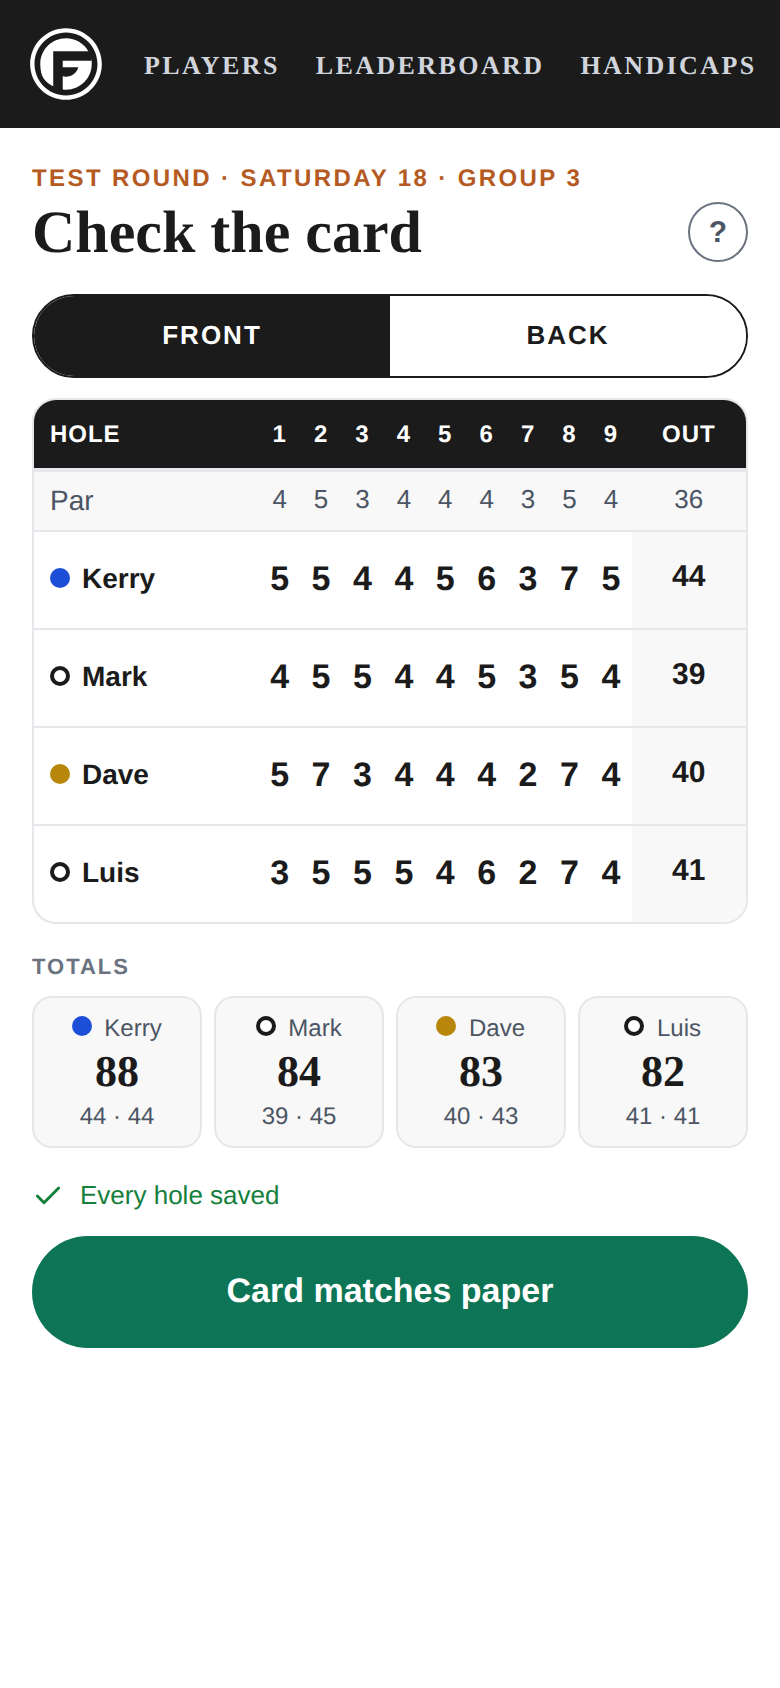
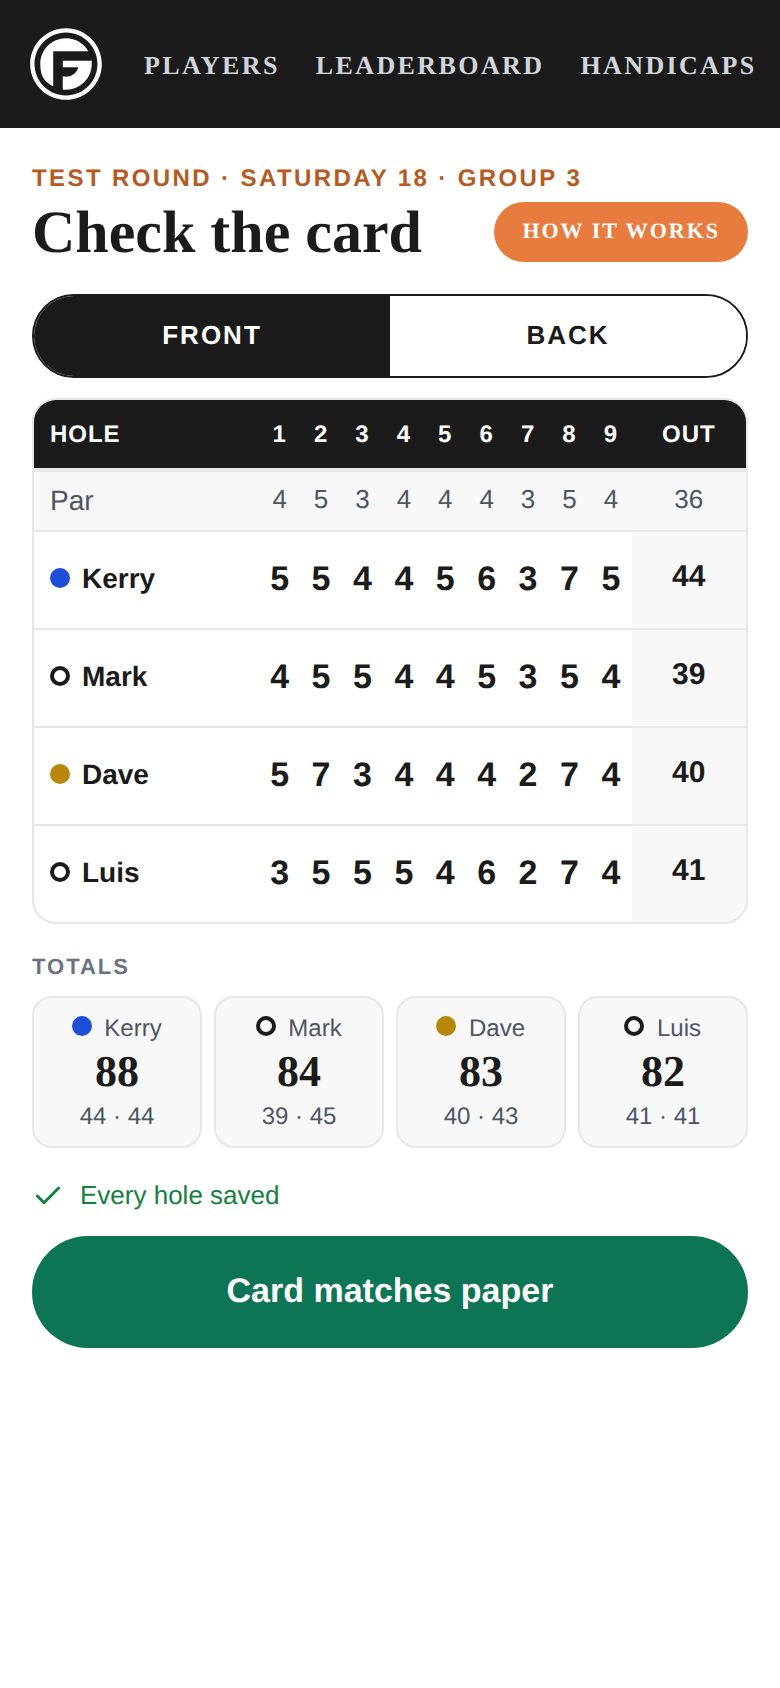
Score entry: How It Works pill, 'Me' for the paper card, full preview bridge (v2.496.1)
Claude-Session: https://claude.ai/code/session_01PeGTnLppc6bpJPrSmUWsVP

Changed region(s): [[0.6154, 0.0924, 0.9538, 0.154]]

diff --git a/transaction-tracker/templates/score_entry.html b/transaction-tracker/templates/score_entry.html
@@ -118,10 +118,13 @@
         /* CARD CHECK (Kerry 2026-09-25): like the paper card and GG's review,
            one nine at a time, the score row right under it. */
         .se-titlebar { display: flex; align-items: center; justify-content: space-between; gap: 10px; }
-        .se-help { width: 30px; height: 30px; border-radius: 15px; border: 1.5px solid #6B7280; background: #FFFFFF;
-                   color: #4B5563; font: 700 15px/1 'Helvetica Neue', Helvetica, Arial, sans-serif; cursor: pointer;
-                   flex: none; padding: 0; }
-        .se-help.on { background: #1B1B1B; border-color: #1B1B1B; color: #FFFFFF; }
+        /* HOW IT WORKS: the app's help standard (contests.html .pr-hiw-link):
+           an orange pill, white Bitter capitals (Kerry 2026-09-26). */
+        .se-help { display: inline-flex; align-items: center; height: 30px; padding: 0 14px; flex: none;
+                   background: #E87C3E; border: none; border-radius: 9999px; cursor: pointer; color: #FFFFFF;
+                   font: 700 11px/1 Bitter, Georgia, serif; letter-spacing: 1px; text-transform: uppercase;
+                   white-space: nowrap; }
+        .se-help:hover, .se-help.on { background: #D06B2E; }
         .se-helptext { margin-top: 8px; padding: 10px 12px; border-radius: 10px; background: #F8F8F8;
                        font-size: 14px; line-height: 1.45; color: #4B5563; white-space: normal; }
         .se-seg { display: flex; border: 1px solid #1B1B1B; border-radius: 24px; overflow: hidden; margin: 12px 0 10px; }
@@ -438,7 +441,7 @@
             }).join("");
         }
 
-        const helpBtn = (k) => `<button type="button" class="se-help ${help[k] ? "on" : ""}" data-act="help" data-k="${k}" aria-label="Help">?</button>`;
+        const helpBtn = (k) => `<button type="button" class="se-help ${help[k] ? "on" : ""}" data-act="help" data-k="${k}" aria-expanded="${help[k] ? "true" : "false"}">How It Works</button>`;
         const helpText = (k, t) => help[k] ? `<div class="se-helptext">${t}</div>` : "";
 
         // CHECK THE CARD (Kerry 2026-09-25): "A is what is most like what the
@@ -500,7 +503,8 @@
         // is prompted to enter that person's name as well.")
         function photoScreen() {
             const others = card.players.filter((p) => p.customer_id !== who);
-            const chips = others.map((p) => `<button type="button" class="se-chip ${psCid === p.customer_id ? "on" : ""}" data-act="ps" data-cid="${p.customer_id}">${esc(first(p.display_name))}</button>`).join("")
+            const chips = `<button type="button" class="se-chip ${psCid === who ? "on" : ""}" data-act="ps" data-cid="${who}">Me</button>`
+                + others.map((p) => `<button type="button" class="se-chip ${psCid === p.customer_id ? "on" : ""}" data-act="ps" data-cid="${p.customer_id}">${esc(first(p.display_name))}</button>`).join("")
                 + `<button type="button" class="se-chip ${psOther ? "on" : ""}" data-act="ps" data-cid="">Someone else</button>`;
             const shot = photo && photo.data
                 ? `<img class="se-shot" src="${photo.data}" alt="Photo of the paper card"><label class="se-retake">Retake<input type="file" accept="image/*" capture="environment" data-photo="1"></label>`
@@ -514,6 +518,7 @@
                 <div class="se-lbl" style="margin:16px 0 8px">Who kept the paper card?</div>
                 <div class="se-chips">${chips}</div>
                 ${psOther ? `<input class="se-input" id="se-ps-name" type="text" autocomplete="off" placeholder="Their name" value="${esc(psName)}">` : ""}
+                ${psCid === who ? `<div class="se-warn">${ICON.warn}<span>Next time, please have one person keep the paper card and another Live Scoring.</span></div>` : ""}
                 <div class="se-gap"></div>
                 <button type="button" class="se-pill go" data-act="submit" ${submitReady() ? "" : "disabled"}>${noPhoto && !(photo && (photo.data || photo.sent)) ? "Submit without a photo" : "Submit card"}</button>
                 ${photo && (photo.data || photo.sent) ? "" : `<button type="button" class="se-link" data-act="nophoto">${noPhoto ? "Take the photo after all" : "Can't take a photo?"}</button>`}

diff --git a/transaction-tracker/static/js/version.js b/transaction-tracker/static/js/version.js
@@ -1,5 +1,15 @@
-window.TGF_VERSION = "2.496.0";
+window.TGF_VERSION = "2.496.1";
 window.TGF_CHANGELOG = [
+  {
+    version: "2.496.1",
+    date: "2026-09-26",
+    title: "Score entry: How It Works button, 'Me' for the paper card, a full preview",
+    changes: [
+      "Kerry, 2026-09-26: the help '?' now follows the How It Works standard, an orange pill with white capitals, like the Leaderboard's How It Works button.",
+      "'Who kept the paper card?' now offers Me, for when the live scorer also kept the paper. Picking it shows Kerry's note: 'Next time, please have one person keep the paper card and another Live Scoring.'",
+      "The preview can show everything: scoring-se-preview takes |18 for an 18-hole preview (FRONT | BACK) and |match to bind demo singles matches (1v2, 3v4) through a new round-level match list (app setting score_entry_matches), so the M tags and the Ball in hole / Picked up prompt appear without touching the Lone Star Cup. New read-only bridge scoring-se-status:<event> shows each round's holes in, signatures, card checks, marks and matches."
+    ]
+  },
   {
     version: "2.496.0",
     date: "2026-09-25",

diff --git a/transaction-tracker/email_parser/score_entry.py b/transaction-tracker/email_parser/score_entry.py
@@ -63,6 +63,23 @@ def round_matches(round_id: int, db_path=None) -> dict:
     except (ValueError, TypeError):
         return {}
     out: dict = {}
+    # A round-level match list (app setting score_entry_matches,
+    # {"<round_id>": [{"id", "format", "sides": [[cid...], [cid...]]}]}):
+    # matches that are not a Lone Star Cup session -- the preview's demo
+    # match today. The cup dial below wins for any player in both.
+    try:
+        rm = json.loads(get_app_setting(ROUND_MATCHES_SETTING, db_path) or "{}")
+    except (ValueError, TypeError):
+        rm = {}
+    for m in (rm.get(str(round_id)) or []):
+        sides = [[int(c) for c in side] for side in (m.get("sides") or [[], []])[:2]]
+        if len(sides) < 2:
+            continue
+        for i, side in enumerate(sides):
+            for c in side:
+                out[c] = {"match_id": m.get("id"), "session": None,
+                          "format": m.get("format") or "singles", "side": ("a", "b")[i],
+                          "partners": [x for x in side if x != c], "opponents": sides[1 - i]}
     for sess in dial.get("sessions") or []:
         if sess.get("se_round") is None or int(sess["se_round"]) != int(round_id):
             continue
@@ -76,6 +93,56 @@ def round_matches(round_id: int, db_path=None) -> dict:
                               "partners": [x for x in side if x != c],
                               "opponents": sides[1 - i]}
     return out
+
+
+ROUND_MATCHES_SETTING = "score_entry_matches"
+
+
+def set_round_matches(round_id: int, matches: list | None, db_path=None) -> dict:
+    """Bind (or with None, clear) round-level matches: [{"id", "format",
+    "sides": [[cid...], [cid...]]}]. Every cid must be in the round."""
+    from email_parser.database import get_app_setting, set_app_setting
+    try:
+        rm = json.loads(get_app_setting(ROUND_MATCHES_SETTING, db_path) or "{}")
+    except (ValueError, TypeError):
+        rm = {}
+    if matches:
+        with _closing(_conn(db_path)) as conn:
+            inround = {r[0] for r in conn.execute(
+                "SELECT customer_id FROM se_players WHERE round_id = ?", (round_id,))}
+        bad = [c for m in matches for side in m.get("sides") or [] for c in side if int(c) not in inround]
+        if bad:
+            return {"error": f"not in round {round_id}: {bad}"}
+        rm[str(round_id)] = matches
+    else:
+        rm.pop(str(round_id), None)
+    set_app_setting(ROUND_MATCHES_SETTING, json.dumps(rm, sort_keys=True), db_path)
+    return {"round_id": round_id, "matches": matches or []}
+
+
+def round_status(event_id: int, db_path=None) -> dict:
+    """A short read of every score-entry round on an event: holes, each
+    player's holes in, signatures, card checks, marks, matches. For lanes
+    checking what the preview shows (read-only)."""
+    feed = get_entered_scores(event_id, db_path=db_path)
+    out = []
+    for r in feed["rounds"]:
+        signed = {}
+        for x in r["signoffs"]:
+            signed.setdefault(x["customer_id"], []).append(
+                x["kind"] + ("" if x.get("signed_by_customer_id") in (None, x["customer_id"])
+                             else f" (by {x['signed_by_customer_id']})"))
+        out.append({"round_id": r["round_id"], "label": r["label"], "holes": r["holes"],
+                    "status": r["status"], "course_holes": len(r["course"]),
+                    "groups": [{"group_id": g["group_id"], "lock": g["lock_state"],
+                                "scorer": g["scorer_customer_id"]} for g in r["groups"]],
+                    "players": [{"customer_id": p["customer_id"], "name": p["name"],
+                                 "thru": p["thru"], "marks": p["marks"],
+                                 "signed": signed.get(p["customer_id"], [])} for p in r["players"]],
+                    "card_checks": r["card_checks"],
+                    "matches": round_matches(r["round_id"], db_path)})
+    return {"event_id": event_id, "version": feed["version"],
+            "keeper_signs": keeper_signs(event_id, db_path), "rounds": out}
 
 
 def _marks_by_subject(conn, group_id: int = None, round_id: int = None) -> dict:
@@ -661,7 +728,8 @@ def _event_course_holes(conn, ev: dict, n_holes: int) -> list[dict]:
 PREVIEW_LABEL = "PREVIEW (test round, not a real card)"
 
 
-def create_preview_round(event_id: int, customer_ids: list[int], db_path=None) -> dict:
+def create_preview_round(event_id: int, customer_ids: list[int], db_path=None,
+                         holes: int | None = None) -> dict:
     ids = [int(c) for c in customer_ids if str(c).strip()]
     if not ids or len(ids) > 5:
         return {"error": "one to five customer_ids"}
@@ -676,14 +744,18 @@ def create_preview_round(event_id: int, customer_ids: list[int], db_path=None) -
         missing = [c for c in ids if c not in names]
         if missing:
             return {"error": f"unknown customer_id(s): {missing}"}
+        default = 18 if "18" in str(ev.get("format") or "") and "9/18" not in str(ev.get("format") or "") else 9
+        # An 18-hole preview on a nine event is its own round (Kerry asked to
+        # see every screen, the FRONT | BACK toggle included).
+        label = PREVIEW_LABEL if not holes or holes == default else f"{PREVIEW_LABEL} · {holes} holes"
+        holes = holes if holes in (9, 18) else default
         existing = conn.execute("SELECT id FROM se_rounds WHERE event_id = ? AND label = ? "
                                 "AND status = 'open' ORDER BY id LIMIT 1",
-                                (event_id, PREVIEW_LABEL)).fetchone()
-        holes = 18 if "18" in str(ev.get("format") or "") and "9/18" not in str(ev.get("format") or "") else 9
+                                (event_id, label)).fetchone()
         course = _event_course_holes(conn, ev, holes)
     rid = existing[0] if existing else create_round(
         event_id, holes, round_date=(ev.get("event_date") or "")[:10] or None,
-        label=PREVIEW_LABEL, course_holes=course, course_id=ev.get("course_id"),
+        label=label, course_holes=course, course_id=ev.get("course_id"),
         created_by="preview", db_path=db_path)["round_id"]
     g = upsert_group(rid, 1, label="Preview group", start_hole=_first_hole(ev, holes),
                      players=[{"customer_id": c, "display_name": names[c], "seat": i + 1}

diff --git a/transaction-tracker/mcp_server.py b/transaction-tracker/mcp_server.py
@@ -1779,7 +1779,8 @@ def _scoring_dispatch_inner(url: str, extract: str):
       scoring-verify:<round_id>    verify one round vs GG's numbers
       scoring-card:<round_id>      full scorecard with derivations
       scoring-courses              course/tee database listing
-      scoring-se-preview:<event_id>|<cid,...>[|apply]  labelled PREVIEW score-entry round + link (admin-only open)
+      scoring-se-preview:<event_id>|<cid,...>[|apply][|18][|match]  labelled PREVIEW score-entry round + link (admin-only open); 18 = an 18-hole preview, match = a demo singles match per pair (1v2, 3v4)
+      scoring-se-status:<event_id>  read-only: every score-entry round on the event, holes in, signatures, checks, marks, matches
       scoring-se-links:<round_id>  one score-entry link per group
       scoring-se-close:<round_id>|apply  close a score-entry round (links stop opening; nothing deleted)
       scoring-se-keeper-signs:<event_id>[|on|off]  the dial: the scorekeeper's submit signs every card in the group
@@ -3222,11 +3223,24 @@ def _scoring_dispatch_inner(url: str, extract: str):
                 return json.dumps({"dry_run": True, "event_id": _ev, "customer_ids": _ids,
                                    "app_version": _ver,
                                    "would": "create or reuse the PREVIEW round and its group; add |apply"})
-            _res = _se.create_preview_round(_ev, _ids)
+            _flags = {x.lower() for x in _p[3:]}
+            _res = _se.create_preview_round(_ev, _ids, holes=18 if "18" in _flags else None)
+            if "error" not in _res and "match" in _flags:
+                # demo match play so every screen shows: 1v2, 3v4 (singles)
+                _pairs = [_ids[i:i + 2] for i in range(0, len(_ids) - 1, 2)]
+                _res["matches"] = _se.set_round_matches(
+                    _res["round_id"], [{"id": f"PREVIEW-{n + 1}", "format": "singles",
+                                        "sides": [[a], [b]]} for n, (a, b) in enumerate(_pairs)])
             if "error" not in _res:
                 _res["links"] = _se.round_links(_res["round_id"])
                 _audit("scoring-se-preview", f"event {_ev} round {_res['round_id']} players {_ids}")
             return json.dumps(_res, indent=2, default=str)
+        if cmd == "scoring-se-status":
+            from email_parser import score_entry as _se
+            try:
+                return json.dumps(_se.round_status(int(arg.strip())), indent=2, default=str)
+            except ValueError:
+                return json.dumps({"error": "usage: scoring-se-status:<event_id>"})
         if cmd == "scoring-se-links":
             # scoring-se-links:<round_id> — one link per group (Kerry hands them out).
             from email_parser import score_entry as _se

diff --git a/transaction-tracker/test_score_entry_ui.py b/transaction-tracker/test_score_entry_ui.py
@@ -145,9 +145,15 @@ with sync_playwright() as p:
     play(pg, 8)
     pg.wait_for_timeout(1200)
     review_ok(pg, 9, "nine")
-    check("help text is hidden until the ? is tapped", pg.locator(".se-helptext").count() == 0)
+    check("help text is hidden until How It Works is tapped", pg.locator(".se-helptext").count() == 0)
+    hb = pg.locator("[data-act=help]")
+    check("help is the How It Works standard: orange pill, white text",
+          hb.inner_text().strip().upper() == "HOW IT WORKS"
+          and hb.evaluate("e => getComputedStyle(e).backgroundColor") == "rgb(232, 124, 62)"
+          and hb.evaluate("e => getComputedStyle(e).color") == "rgb(255, 255, 255)",
+          (hb.inner_text(), hb.evaluate("e => getComputedStyle(e).backgroundColor")))
     pg.click("[data-act=help]")
-    check("the ? shows the help", pg.locator(".se-helptext").count() == 1)
+    check("How It Works shows the help", pg.locator(".se-helptext").count() == 1)
     pg.click("[data-act=help]")
     pg.click("button.cell[data-key='c:102'][data-h='4']")
     pg.wait_for_selector(".se-picker")
@@ -176,7 +182,12 @@ with sync_playwright() as p:
     pg.wait_for_selector("text=Photo of the paper card")
     check("submit waits for who kept the paper card",
           pg.locator("[data-act=submit]").is_disabled())
+    pg.click("[data-act=ps][data-cid='101']")
+    check("'Me' is a choice, with Kerry's note",
+          "Next time, please have one person keep the paper card and another Live Scoring" in pg.inner_text("body"))
     pg.click("[data-act=ps][data-cid='102']")
+    check("the note goes away for anyone else",
+          "Next time, please have one person" not in pg.inner_text("body"))
     check("...and for a photo", pg.locator("[data-act=submit]").is_disabled())
     pg.click("[data-act=nophoto]")
     check("'Can't take a photo?' lets it go without one",

diff --git a/transaction-tracker/test_score_entry.py b/transaction-tracker/test_score_entry.py
@@ -328,6 +328,19 @@ check("...both picked up -> the hole is a push, both cards still 7",
       x["winner"] == 0 and x["p1_gross"] == 7 and x["p2_gross"] == 7, x)
 db.set_app_setting("lsc_matches", "")
 se.write_scores(sg, "sk", 101, [mk("MK8", 102, 1, 5), mk("MK11", 101, 1, 4)])
+check("a round-level match must use players in the round",
+      "error" in se.set_round_matches(sr, [{"id": "X", "sides": [[101], [999]]}]))
+se.set_round_matches(sr, [{"id": "DEMO-1", "format": "singles", "sides": [[102], [105]]}])
+mt = se.get_group_card(sg)["matches"]
+check("a round-level match (the preview's demo) also marks who has a match",
+      mt.get("102", {}).get("opponents") == [105] and "101" not in mt, mt)
+st = se.round_status(900)
+rs = next(r for r in st["rounds"] if r["round_id"] == sr)
+check("round_status reads holes in, signatures and matches",
+      rs["holes"] == 9 and any(p["customer_id"] == 102 and p["thru"] == 9 for p in rs["players"])
+      and "102" in {str(k) for k in rs["matches"]}, rs["players"][:2])
+se.set_round_matches(sr, None)
+check("the round-level match clears", se.get_group_card(sg)["matches"] == {})
 
 print("card check + submit + photo (Kerry 2026-09-25)")
 check("only the scorekeeper's phone submits",

diff --git a/transaction-tracker/docs/claude/score-entry.md b/transaction-tracker/docs/claude/score-entry.md
@@ -209,6 +209,16 @@ is Triple".
   "Something's wrong" box all say "Maximum allowed is triple bogey (N)."
   (for a match player: "enter N, then mark it Picked up").
 - Screenshots: `docs/claude/screenshots/score-entry-2026-09-25-match-pickup/`.
+- **Round-level matches (v2.496.1).** Besides the cup dial, `round_matches`
+  reads app setting `score_entry_matches` ({"<round_id>": [{"id", "format",
+  "sides": [[cid], [cid]]}]}; `set_round_matches`). Today it binds the
+  preview's demo match (`scoring-se-preview:<event>|<cids>|apply|18|match`);
+  it is also the place a non-cup match would bind. Read the state with
+  `scoring-se-status:<event>`.
+- **Help and the paper card (v2.496.1, Kerry 2026-09-26).** Help is the How
+  It Works pill (orange, white Bitter capitals, as `.pr-hiw-link`). "Who kept
+  the paper card?" offers **Me**; picking it shows "Next time, please have
+  one person keep the paper card and another Live Scoring."
 
 ## Max Triple, and no ace on a par 5 (v2.493.3)
 
